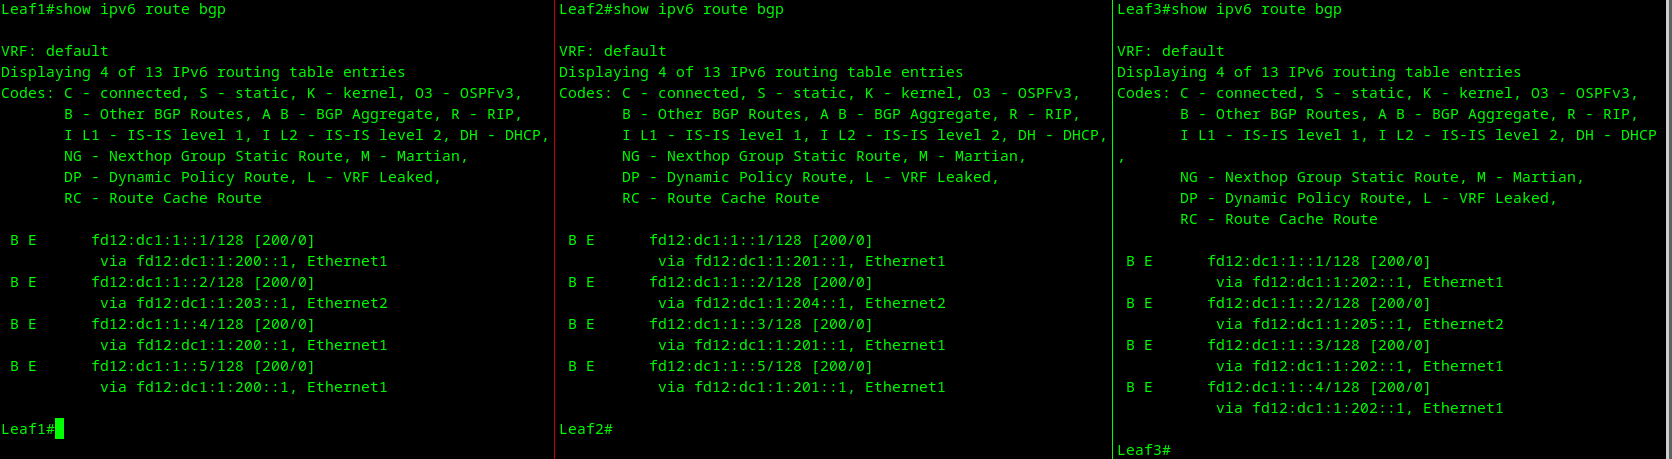
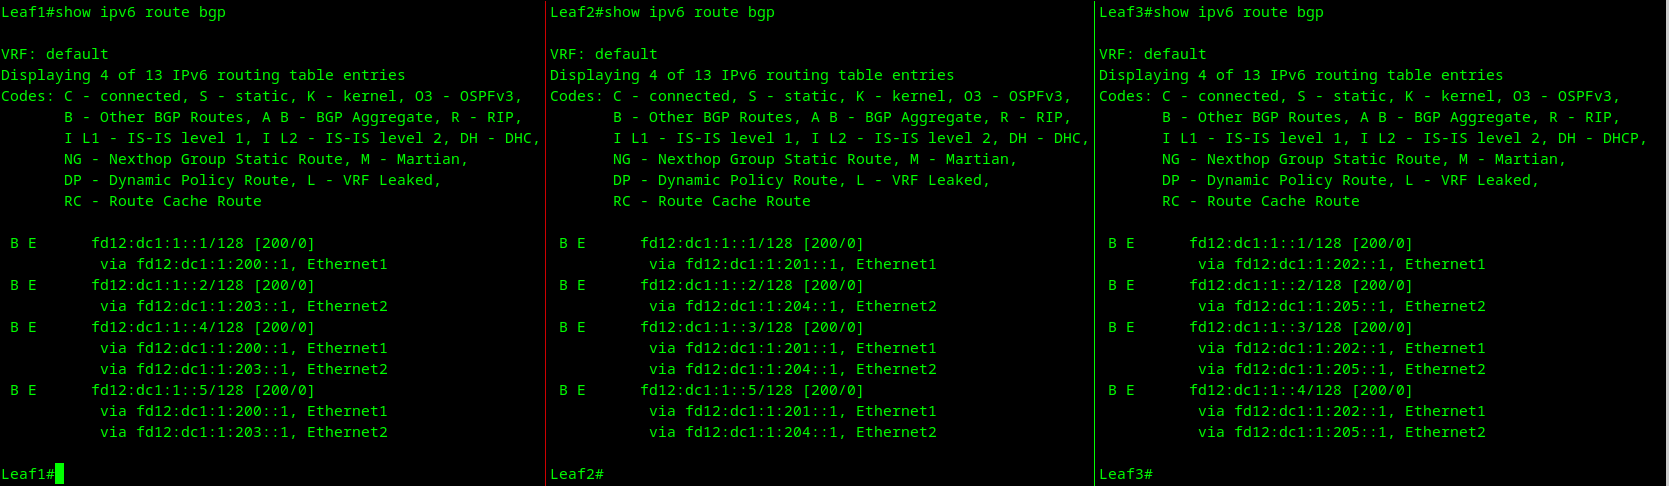
Modify readme file

diff --git a/hometasks/dc-ht-4/README.md b/hometasks/dc-ht-4/README.md
@@ -268,6 +268,12 @@ Spine1#
 ```
 Да! Мы видим информация поменялась, теперь Origin INCOMPLETE.
 
+BGP по умолчанию выбирает только один наилучший путь и устанавливает его в FIB. Для повышения отказоустойчивости нам необходимо задействовать механизм Equal-Cost Multi-Path (ECMP). который позволит использовать несколько next-hop для достижения каждого Leaf. Примем, что максимальное количество next-hop до каждого Leaf у нас не будет превышать 4. Сделаем соответствующие настройки на каждом коммутаторе:
+```
+router bgp 64520
+ maximum-paths 4
+```
+
 ### Проверка результатов работы
 
 - В начале убедимся в установлении соседств bfd (статус Up в колонке State):
@@ -280,10 +286,24 @@ Spine1#
 ![alt-text](https://github.com/Gord-Gord/dc-network-design/blob/main/hometasks/dc-ht-4/spines_bgp_neighbors.png)
 ![alt-text](https://github.com/Gord-Gord/dc-network-design/blob/main/hometasks/dc-ht-4/leaves_bgp_neighbors.png)  
     
+- Интересно посмотреть, что каждое устройство получает по протоколу BGP:
+    - Spine-коммутаторы:
+![alt-text](https://github.com/Gord-Gord/dc-network-design/blob/main/hometasks/dc-ht-4/spines_ipv6_bgp.png)
+    - Leaf1:
+![alt-text](https://github.com/Gord-Gord/dc-network-design/blob/main/hometasks/dc-ht-4/leav1_ipv6_bgp.png)
+    - Leaf2:
+![alt-text](https://github.com/Gord-Gord/dc-network-design/blob/main/hometasks/dc-ht-4/leav2_ipv6_bgp.png)
+    - Leaf3:
+![alt-text](https://github.com/Gord-Gord/dc-network-design/blob/main/hometasks/dc-ht-4/leav3_ipv6_bgp.png)
+
+Как видим, на каждом Leaf-коммутаторе мы получаем анонсы до других Leaf с разными next-hop, но одинаковой стоимости (local-preferance, weight, AS-Path).
+
 - Далее посмотрим какие маршруты получены по BGP и внесены в таблицы маршрутизации каждого устройства:
 
 ![alt-text](https://github.com/Gord-Gord/dc-network-design/blob/main/hometasks/dc-ht-4/spines_bgp_routes.png)
 ![alt-text](https://github.com/Gord-Gord/dc-network-design/blob/main/hometasks/dc-ht-4/leaves_bgp_routes.png)
+На скрине с Leaf-коммутаторов в таблице маршрутизации каждого Leaf видим по два next-hop до loopback других Leaf-ов.
+
 
 
 - Проверим сетевую связность между интерфейсами loopback 0 разных коммутаторов:
@@ -340,7 +360,8 @@ peer-filter LEAF-AS-NUMBERS
 router bgp 64520
    router-id 10.1.1.1
    timers bgp 3 9
-   bgp listen range fd12:dc1:1:200::/55 peer-group LEAF-UNDERLAY peer-filter LEAF-AS-NUMBES
+   maximum-paths 4
+   bgp listen range fd12:dc1:1:200::/55 peer-group LEAF-UNDERLAY peer-filter LEAF-AS-NUMBERS
    neighbor LEAF-UNDERLAY peer group
    neighbor LEAF-UNDERLAY bfd
    redistribute connected route-map rm-connected
@@ -400,6 +421,7 @@ router bgp 64520
    router-id 10.1.1.2
    no bgp default ipv4-unicast
    timers bgp 3 9
+   maximum-paths 4
    bgp listen range fd12:dc1:1:200::/55 peer-group LEAF-UNDERLAY peer-filter LEAF-AS-NUMBERS
    neighbor LEAF-UNDERLAY peer group
    neighbor LEAF-UNDERLAY bfd
@@ -452,6 +474,7 @@ route-map rm-connected permit 10
 router bgp 64521
    router-id 10.1.1.3
    timers bgp 3 9
+   maximum-paths 4
    neighbor SPINE-UNDERLAY peer group
    neighbor SPINE-UNDERLAY bfd
    neighbor fd12:dc1:1:200::1 peer group SPINE-UNDERLAY
@@ -507,6 +530,7 @@ route-map rm-connected permit 10
 router bgp 64522
    router-id 10.1.1.4
    timers bgp 3 9
+   maximum-paths 4
    neighbor SPINE-UNDERLAY peer group
    neighbor SPINE-UNDERLAY bfd
    neighbor fd12:dc1:1:201::1 peer group SPINE-UNDERLAY
@@ -562,6 +586,7 @@ route-map rm-connected permit 10
 router bgp 64523
    router-id 10.1.1.5
    timers bgp 3 9
+   maximum-paths 4
    neighbor SPINE-UNDERLAY peer group
    neighbor SPINE-UNDERLAY bfd
    neighbor fd12:dc1:1:202::1 peer group SPINE-UNDERLAY
